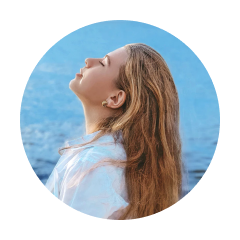
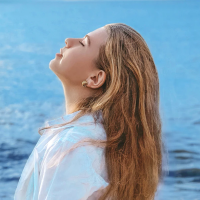
header on homepage

diff --git a/lib/ui/pages/main_page.dart b/lib/ui/pages/main_page.dart
@@ -1,11 +1,17 @@
 import 'package:flutter/material.dart';
 import '../../shared/theme.dart';
+import '../../ui/widgets/custom_bottom_navigation_item.dart';
+import 'home_page.dart';
 
 class MainPage extends StatelessWidget {
   const MainPage({Key? key}) : super(key: key);
 
   @override
   Widget build(BuildContext context) {
+    Widget buildContent() {
+      return HomePage();
+    }
+
     Widget customBottomNavigation() {
       return Align(
         alignment: Alignment.bottomCenter,
@@ -21,86 +27,13 @@ class MainPage extends StatelessWidget {
           child: Row(
             mainAxisAlignment: MainAxisAlignment.spaceAround,
             children: [
-              Column(
-                  mainAxisAlignment: MainAxisAlignment.spaceBetween,
-                  children: [
-                    SizedBox(),
-                    Container(
-                      width: 24,
-                      height: 24,
-                      decoration: BoxDecoration(
-                          image: DecorationImage(
-                              image: AssetImage('assets/icon_globe.png'))),
-                    ),
-                    Container(
-                      width: 30,
-                      height: 2,
-                      decoration: BoxDecoration(
-                        color: kPurpleColor,
-                        borderRadius: BorderRadius.circular(defaultRadius),
-                      ),
-                    )
-                  ]),
-              Column(
-                  mainAxisAlignment: MainAxisAlignment.spaceBetween,
-                  children: [
-                    SizedBox(),
-                    Container(
-                      width: 24,
-                      height: 24,
-                      decoration: BoxDecoration(
-                          image: DecorationImage(
-                              image: AssetImage('assets/icon_menu.png'))),
-                    ),
-                    Container(
-                      width: 30,
-                      height: 2,
-                      decoration: BoxDecoration(
-                        color: Colors.transparent,
-                        borderRadius: BorderRadius.circular(defaultRadius),
-                      ),
-                    )
-                  ]),
-              Column(
-                  mainAxisAlignment: MainAxisAlignment.spaceBetween,
-                  children: [
-                    SizedBox(),
-                    Container(
-                      width: 24,
-                      height: 24,
-                      decoration: BoxDecoration(
-                          image: DecorationImage(
-                              image: AssetImage('assets/icon_wallet.png'))),
-                    ),
-                    Container(
-                      width: 30,
-                      height: 2,
-                      decoration: BoxDecoration(
-                        color: Colors.transparent,
-                        borderRadius: BorderRadius.circular(defaultRadius),
-                      ),
-                    )
-                  ]),
-              Column(
-                  mainAxisAlignment: MainAxisAlignment.spaceBetween,
-                  children: [
-                    SizedBox(),
-                    Container(
-                      width: 24,
-                      height: 24,
-                      decoration: BoxDecoration(
-                          image: DecorationImage(
-                              image: AssetImage('assets/icon_settings.png'))),
-                    ),
-                    Container(
-                      width: 30,
-                      height: 2,
-                      decoration: BoxDecoration(
-                        color: Colors.transparent,
-                        borderRadius: BorderRadius.circular(defaultRadius),
-                      ),
-                    )
-                  ])
+              CustomBottomNavigationItem(
+                imgUrl: 'assets/icon_globe.png',
+                isSelected: true,
+              ),
+              CustomBottomNavigationItem(imgUrl: 'assets/icon_menu.png'),
+              CustomBottomNavigationItem(imgUrl: 'assets/icon_wallet.png'),
+              CustomBottomNavigationItem(imgUrl: 'assets/icon_settings.png'),
             ],
           ),
         ),
@@ -111,6 +44,7 @@ class MainPage extends StatelessWidget {
       backgroundColor: kBackgroundColor,
       body: Stack(
         children: [
+          buildContent(),
           customBottomNavigation(),
         ],
       ),

diff --git a/lib/ui/pages/home_page.dart b/lib/ui/pages/home_page.dart
@@ -1,0 +1,56 @@
+import 'package:flutter/material.dart';
+import '../../shared/theme.dart';
+
+class HomePage extends StatelessWidget {
+  const HomePage({Key? key}) : super(key: key);
+
+  Widget header() {
+    return Container(
+      margin:
+          EdgeInsets.only(right: defaultMargin, left: defaultMargin, top: 30),
+      child: Row(
+        children: [
+          Expanded(
+            child: Column(
+              crossAxisAlignment: CrossAxisAlignment.start,
+              children: [
+                Text(
+                  'Howdy,\nKezia Anne',
+                  style: blackFont.copyWith(fontSize: 24, fontWeight: semiBold),
+                ),
+                SizedBox(
+                  height: 6,
+                ),
+                Text(
+                  'Where to fly today?',
+                  style: greyFont.copyWith(fontWeight: light, fontSize: 16),
+                )
+              ],
+            ),
+          ),
+          Container(
+            width: 60,
+            height: 60,
+            decoration: BoxDecoration(
+                shape: BoxShape.circle,
+                border: Border.all(
+                  width: 5,
+                  color: kWhiteColor,
+                ),
+                image: DecorationImage(
+                    image: AssetImage('assets/image_profile.png'))),
+          )
+        ],
+      ),
+    );
+  }
+
+  @override
+  Widget build(BuildContext context) {
+    return ListView(
+      children: [
+        header(),
+      ],
+    );
+  }
+}

diff --git a/lib/ui/widgets/custom_bottom_navigation_item.dart b/lib/ui/widgets/custom_bottom_navigation_item.dart
@@ -1,0 +1,32 @@
+import 'package:flutter/material.dart';
+import '../../shared/theme.dart';
+
+class CustomBottomNavigationItem extends StatelessWidget {
+  const CustomBottomNavigationItem(
+      {Key? key, required this.imgUrl, this.isSelected = false})
+      : super(key: key);
+
+  final String imgUrl;
+  final bool isSelected;
+
+  @override
+  Widget build(BuildContext context) {
+    return Column(mainAxisAlignment: MainAxisAlignment.spaceBetween, children: [
+      SizedBox(),
+      Container(
+        width: 24,
+        height: 24,
+        decoration:
+            BoxDecoration(image: DecorationImage(image: AssetImage(imgUrl))),
+      ),
+      Container(
+        width: 30,
+        height: 2,
+        decoration: BoxDecoration(
+          color: isSelected ? kPurpleColor : Colors.transparent,
+          borderRadius: BorderRadius.circular(defaultRadius),
+        ),
+      )
+    ]);
+  }
+}
